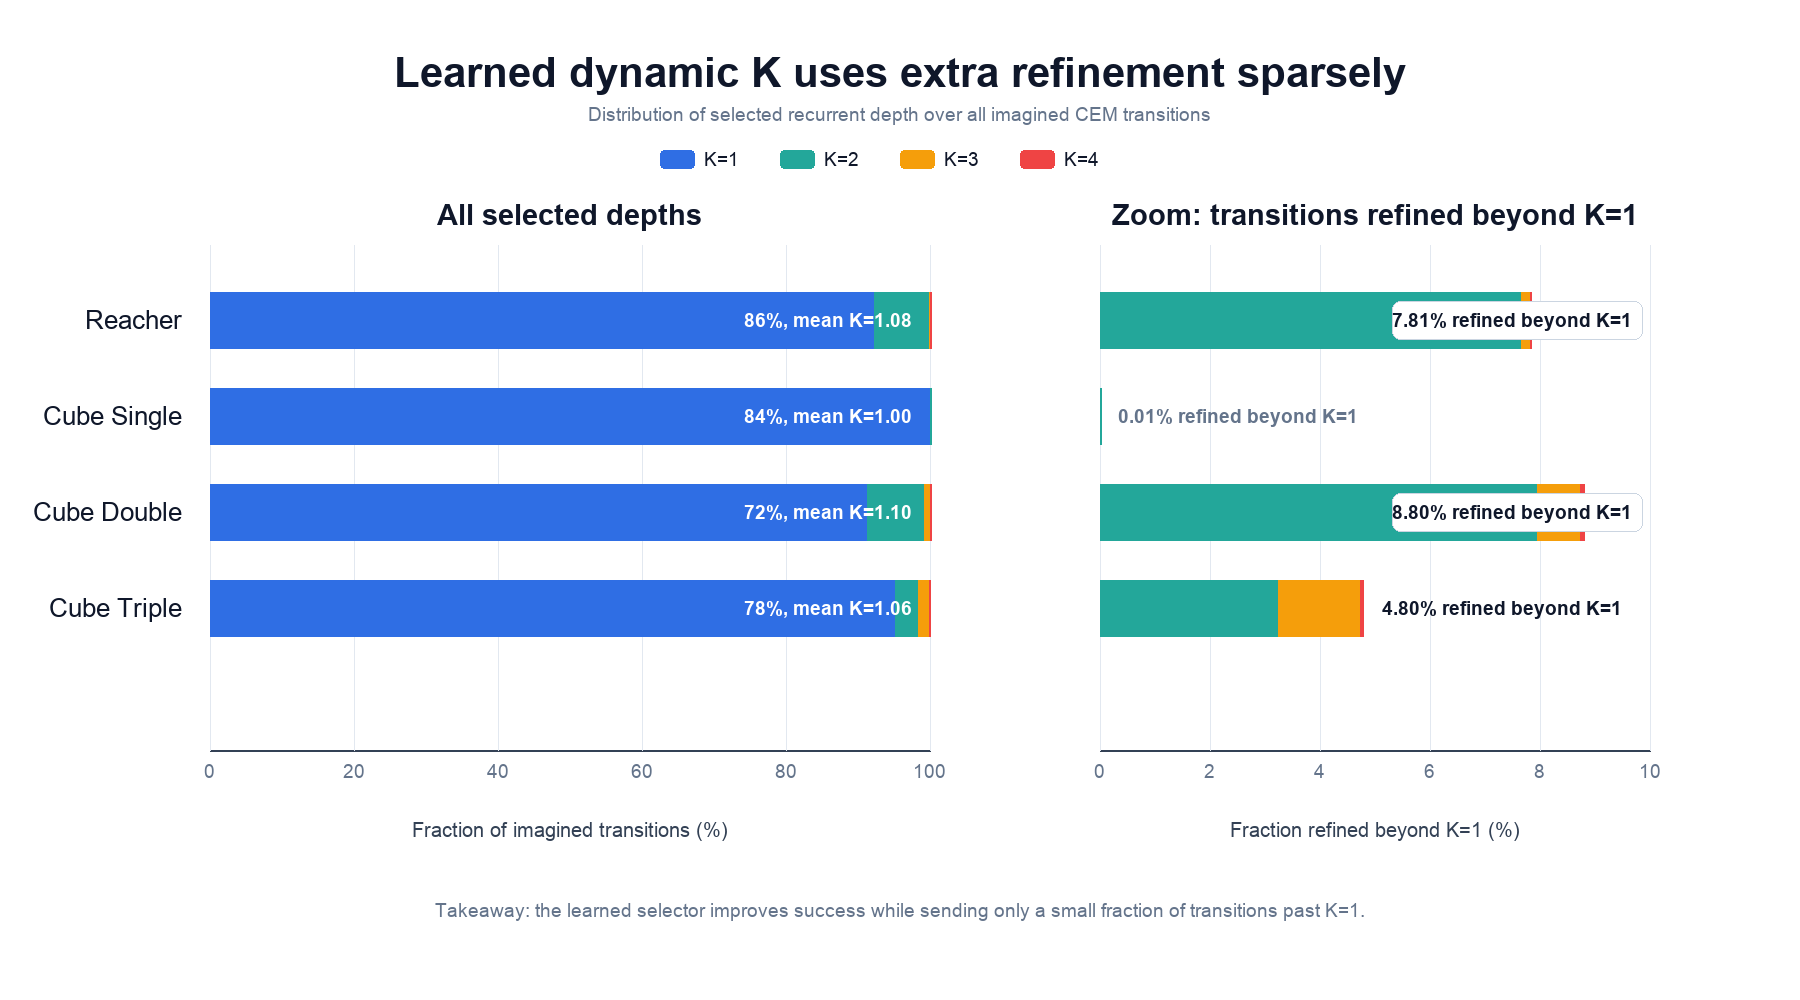
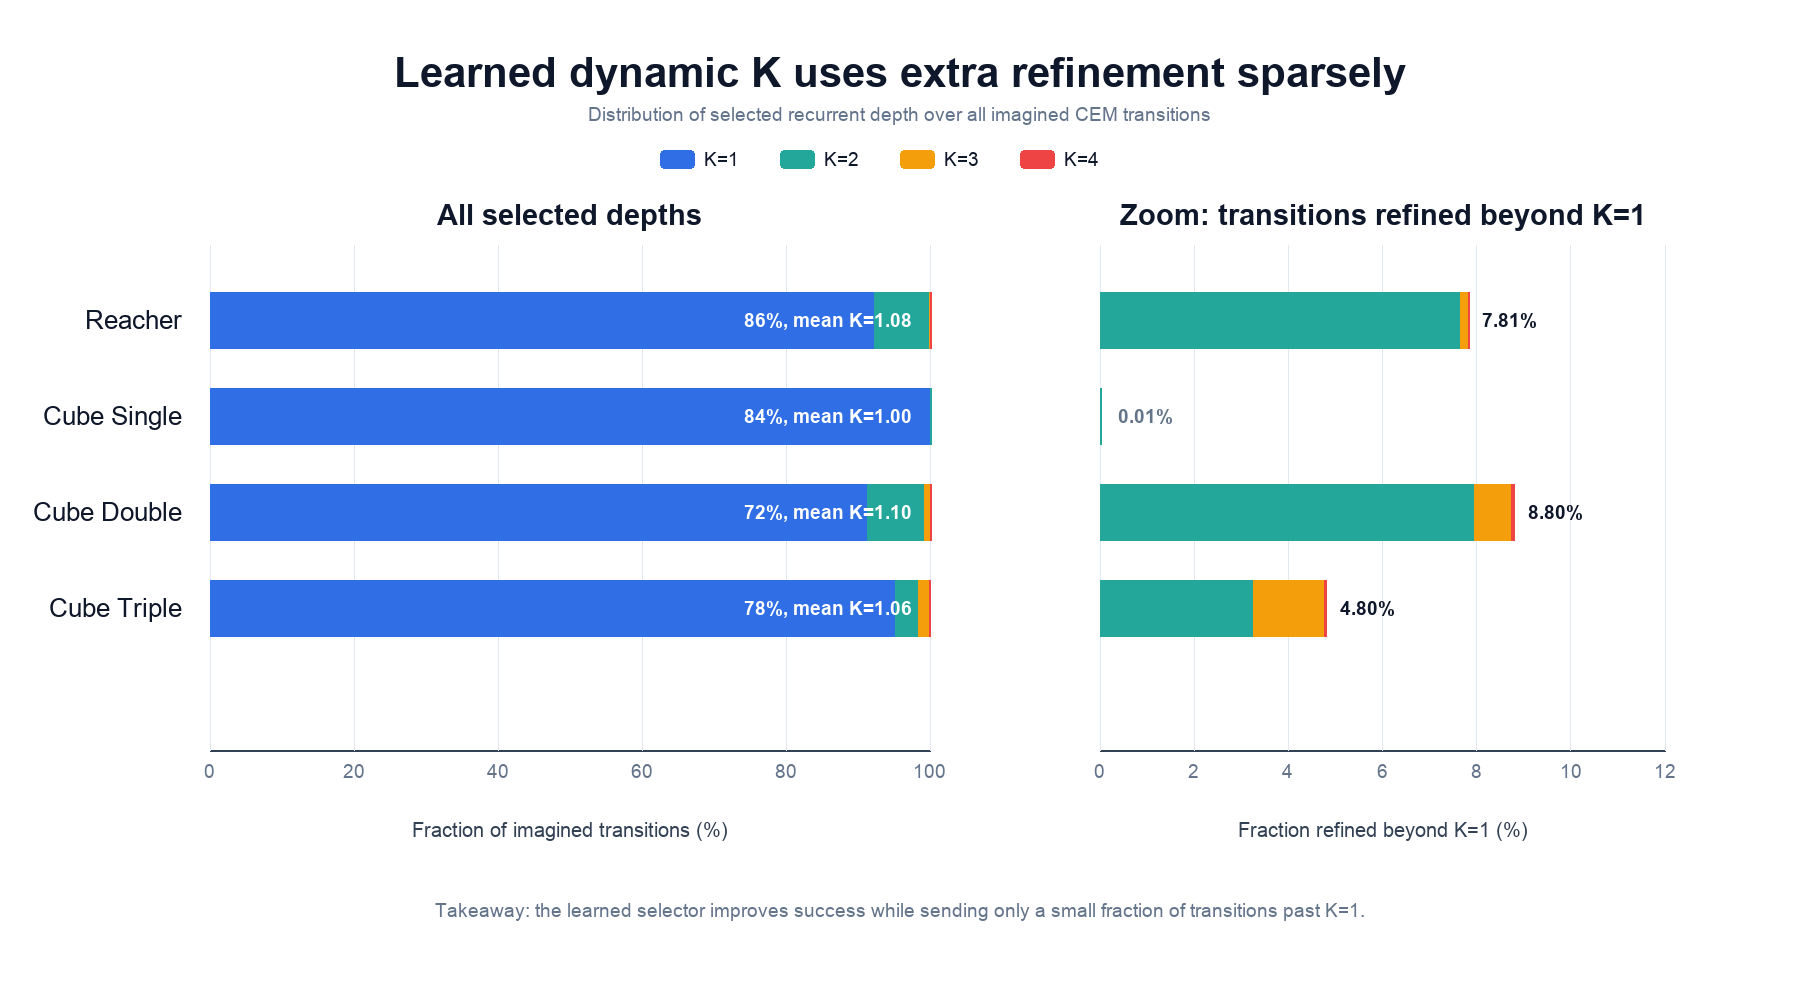
docs: clean depth allocation labels

diff --git a/scripts/generate_depth_allocation_figure.py b/scripts/generate_depth_allocation_figure.py
@@ -143,12 +143,12 @@ def main():
     draw_legend(draw, 660, 150)
 
     left = (210, 245, 930, 750)
-    right = (1100, 245, 1650, 750)
+    right = (1100, 245, 1665, 750)
     draw_center(draw, ((left[0] + left[2]) / 2, 215), "All selected depths", F_PANEL)
     draw_center(draw, ((right[0] + right[2]) / 2, 215), "Zoom: transitions refined beyond K=1", F_PANEL)
 
     lx = grid(draw, left, 100, [0, 20, 40, 60, 80, 100])
-    rx = grid(draw, right, 10, [0, 2, 4, 6, 8, 10])
+    rx = grid(draw, right, 12, [0, 2, 4, 6, 8, 10, 12])
     bar_h = 56
     row_gap = 96
     y_start = 292
@@ -166,21 +166,12 @@ def main():
             anchor="rm",
         )
 
-        draw_stacked_bar(draw, right[0], y, right[2] - right[0], bar_h, row["k"], 10, include_k1=False)
-        label = f"{row['deepened']:.2f}% refined beyond K=1"
+        draw_stacked_bar(draw, right[0], y, right[2] - right[0], bar_h, row["k"], 12, include_k1=False)
+        label = f"{row['deepened']:.2f}%"
         if row["deepened"] < 0.05:
             draw.text((right[0] + 18, center_y), label, font=F_SMALL_BOLD, fill=COLORS["muted"], anchor="lm")
-        elif row["deepened"] > 7.0:
-            box_w = 258
-            draw.rounded_rectangle(
-                (right[2] - box_w, center_y - 19, right[2] - 8, center_y + 19),
-                radius=8,
-                fill="white",
-                outline="#cbd5e1",
-            )
-            draw.text((right[2] - 18, center_y), label, font=F_SMALL_BOLD, fill=COLORS["text"], anchor="rm")
         else:
-            x_label = min(rx(row["deepened"]) + 18, right[2] + 12)
+            x_label = min(rx(row["deepened"]) + 14, right[2] - 4)
             draw.text((x_label, center_y), label, font=F_SMALL_BOLD, fill=COLORS["text"], anchor="lm")
 
     draw_center(draw, ((left[0] + left[2]) / 2, 830), "Fraction of imagined transitions (%)", F_AXIS, COLORS["axis"])